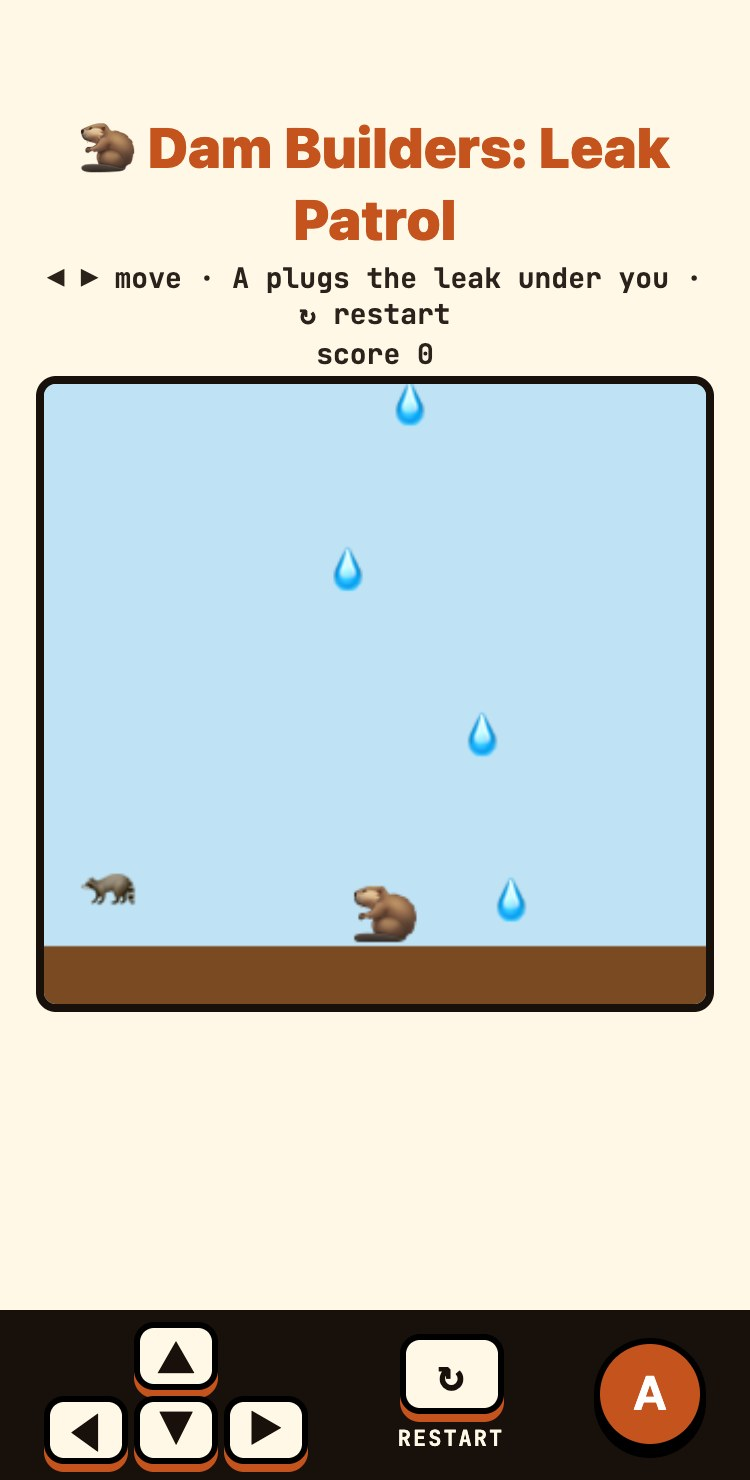
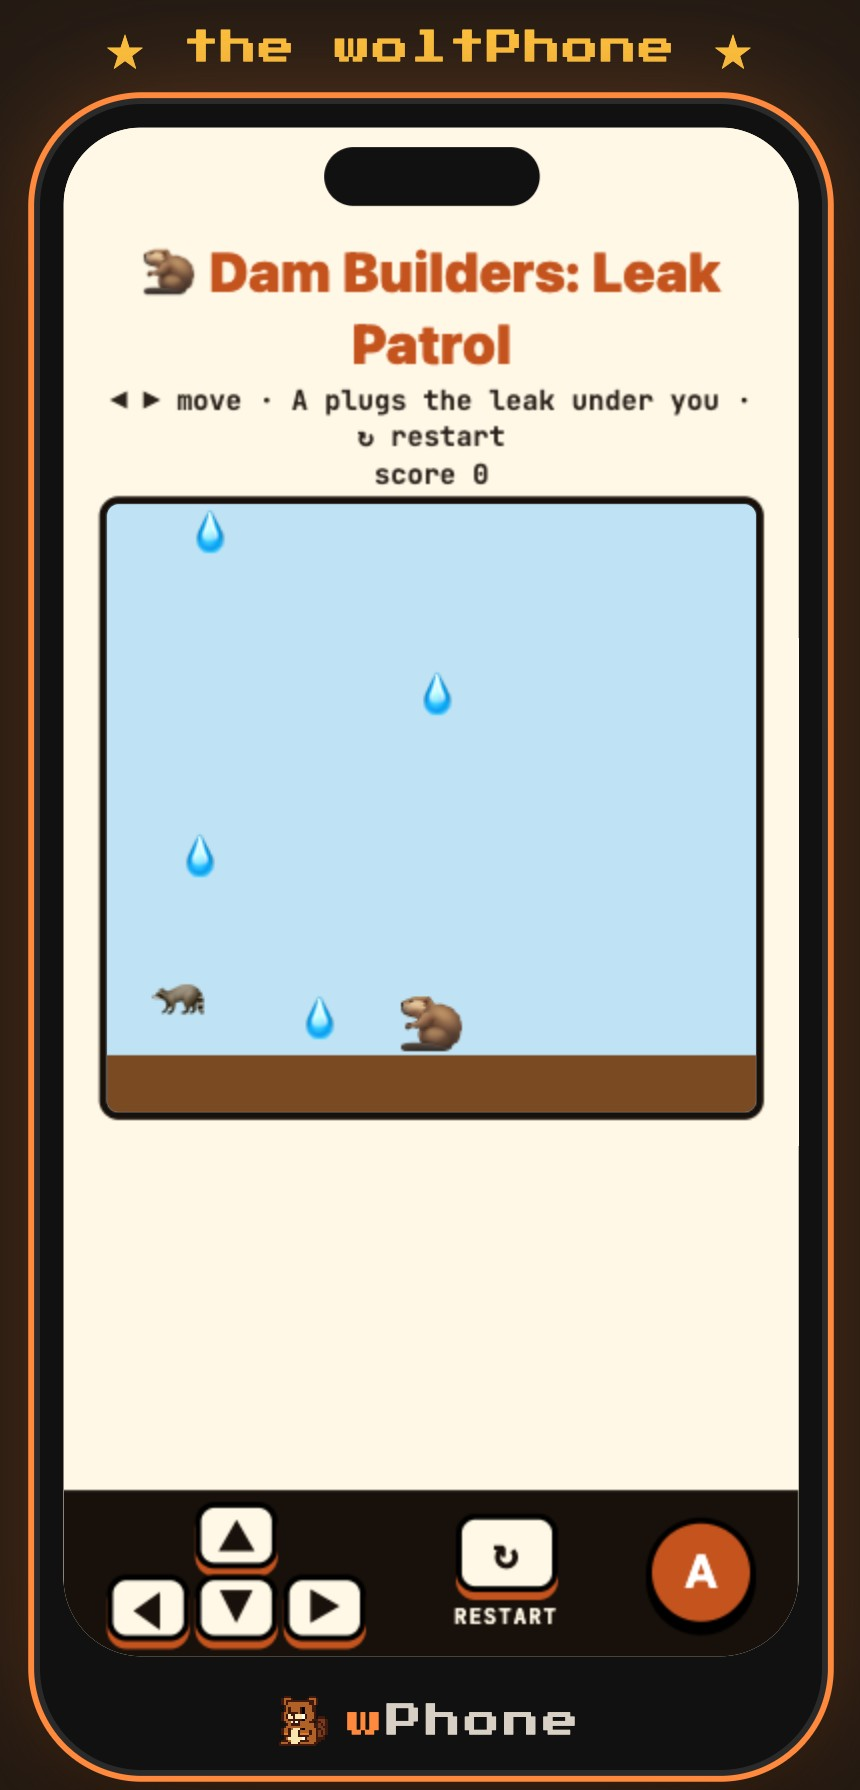
Slides: the woltPhone exactly as on the big screen

diff --git a/static/slides/candidates/index.html b/static/slides/candidates/index.html
@@ -3,7 +3,7 @@
 <!-- The Lodge Show deck: the talk's slide template (the Book of Wolt), new content. One <section id> per slide,
      listed in ../release-manifest.json. /slides opens it; the big screen's board shows it in a frame. -->
 <link rel="preload" href="../static/fonts/Preahvihear.woff2" as="font" type="font/woff2" crossorigin><link rel="preload" href="../static/fonts/JetBrainsMono.woff2" as="font" type="font/woff2" crossorigin><link rel="stylesheet" href="../static/fonts/fonts.css"><link rel="stylesheet" href="candidates.css"><link rel="stylesheet" href="candidates-more.css"><link rel="stylesheet" href="../polish.css">
-<link rel="stylesheet" href="candidates-new.css"><link rel="stylesheet" href="refocus.css"><link rel="stylesheet" href="candidates-fix.css"><link rel="stylesheet" href="show.css?v=23">
+<link rel="stylesheet" href="candidates-new.css"><link rel="stylesheet" href="refocus.css"><link rel="stylesheet" href="candidates-fix.css"><link rel="stylesheet" href="show.css?v=25">
 <script src="../presenter-keys.js" defer></script><script src="../book-nav.js" defer></script>
 </head><body><main>
 
@@ -47,7 +47,7 @@
     <li><i>4</i><span><b>It ships to the woltPhone</b><small>everyone plays it</small></span></li>
   </ol>
   <a class="code room" data-qr="room"><span class="qr"></span><span><b>Play along</b><small class="room-url"></small></span></a>
-  <figure class="phone"><figcaption>★ the woltPhone ★</figcaption><div class="frame"><img src="../static/media/woltphone.jpg?v=2" alt="The woltPhone: the game, live, built by three humans and three wolts" width="750" height="1480"></div></figure>
+  <figure class="phone"><img src="../static/media/woltphone.jpg?v=4" alt="The woltPhone, as on the big screen: the game, live, built by three humans and three wolts" width="860" height="1790"></figure>
   <p class="local">🖥 All running live on this laptop</p>
 </div></section>
 

diff --git a/static/slides/candidates/show.css b/static/slides/candidates/show.css
@@ -80,12 +80,12 @@
 .tk .plan small{font:500 20px/1.25 'JetBrains Mono',monospace;color:#5c4d3c}
 .demo .room{position:absolute;left:90px;top:830px;padding:10px 22px 10px 10px}
 .demo .room .qr img,.demo .room .qr canvas{width:120px!important;height:120px!important}
-.demo .phone{position:absolute;left:1120px;top:40px;width:350px;margin:0;background:none!important;border:0!important;padding:0!important}
+.demo .phone{position:absolute;left:1130px;top:60px;width:390px;margin:0;background:none!important;border:0!important;padding:0!important}
 .demo .phone figcaption{background:none!important;padding:0!important;border:0!important;text-align:center;color:var(--amber);font:400 30px/1 var(--display);margin-bottom:16px;animation:press 1.4s steps(1) infinite}
 @keyframes press{50%{opacity:.35}}
 .demo .phone .frame{position:relative;padding:14px;background:#18100a;border-radius:46px;box-shadow:10px 10px 0 var(--terra),0 0 0 3px #3a2a1e}
 .demo .phone .frame::before{content:"";position:absolute;left:50%;top:22px;translate:-50% 0;width:90px;height:22px;border-radius:12px;background:#18100a;z-index:2}
-.demo .phone img{display:block;width:100%;height:auto;border-radius:34px}
+.demo .phone img{display:block;width:100%;height:auto;-webkit-mask-image:linear-gradient(90deg,transparent,#000 4%,#000 96%,transparent),linear-gradient(transparent,#000 2%,#000 98%,transparent);-webkit-mask-composite:source-in;mask-image:linear-gradient(90deg,transparent,#000 4%,#000 96%,transparent),linear-gradient(transparent,#000 2%,#000 98%,transparent);mask-composite:intersect}
 /* The point to say out loud: it's all on this laptop. */
 .demo .local{position:absolute;left:560px;top:860px;margin:0;padding:12px 20px;background:var(--ink);border:3px solid var(--amber);color:var(--amber);font:700 26px 'JetBrains Mono',monospace;box-shadow:6px 6px 0 #0c0805}
 
